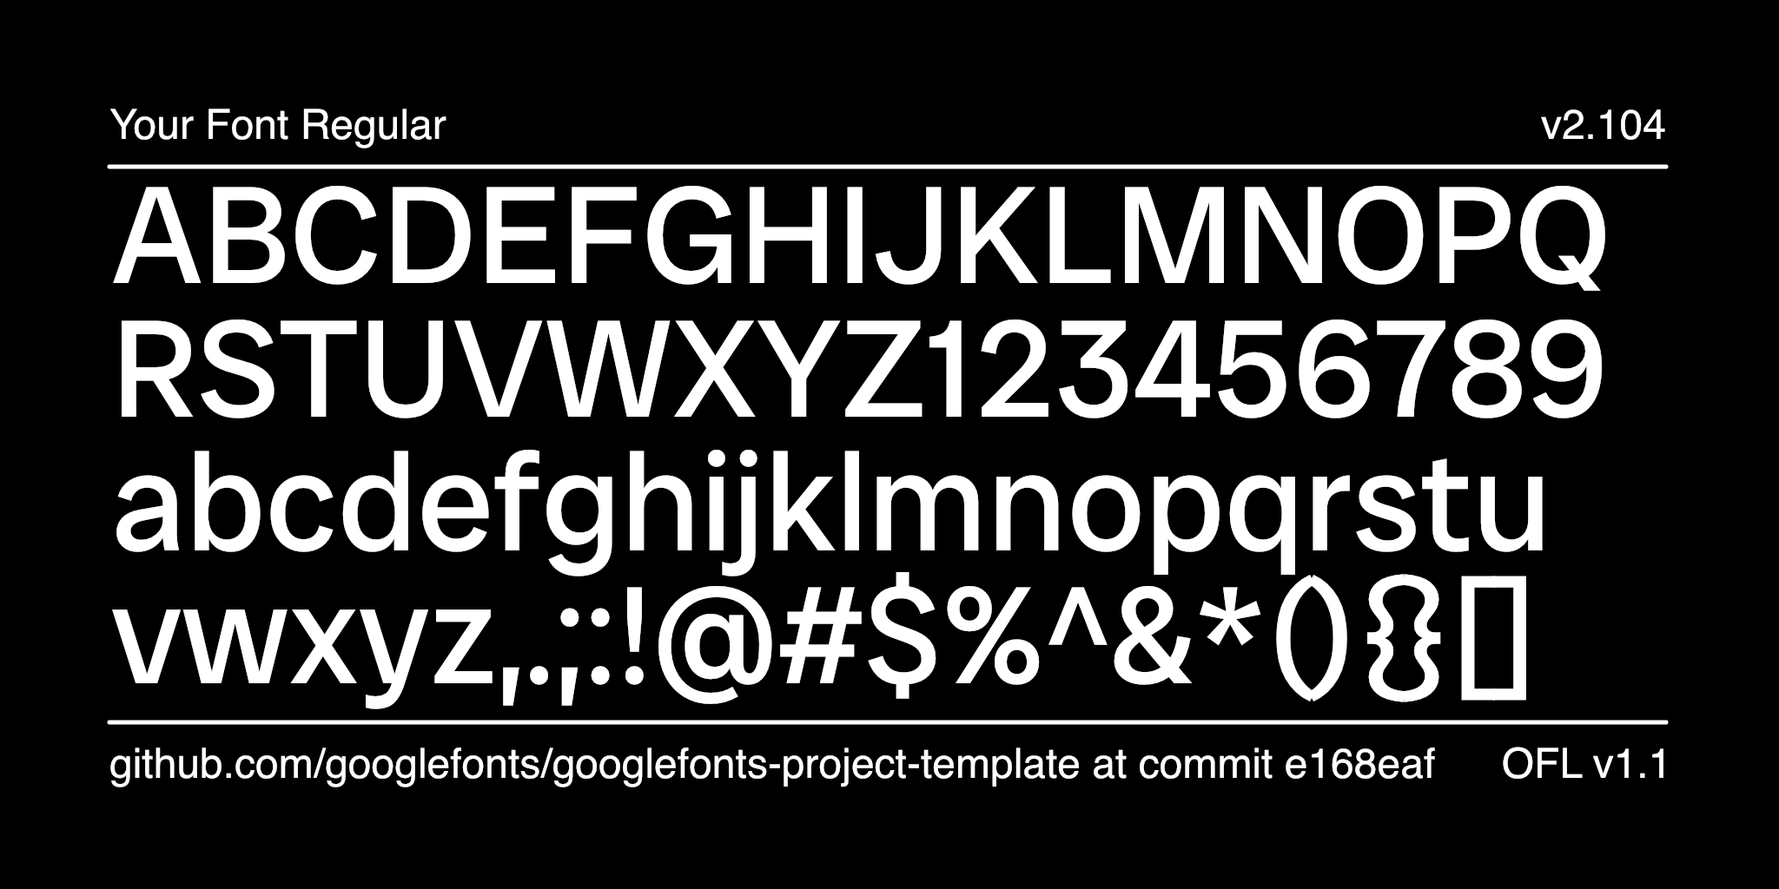
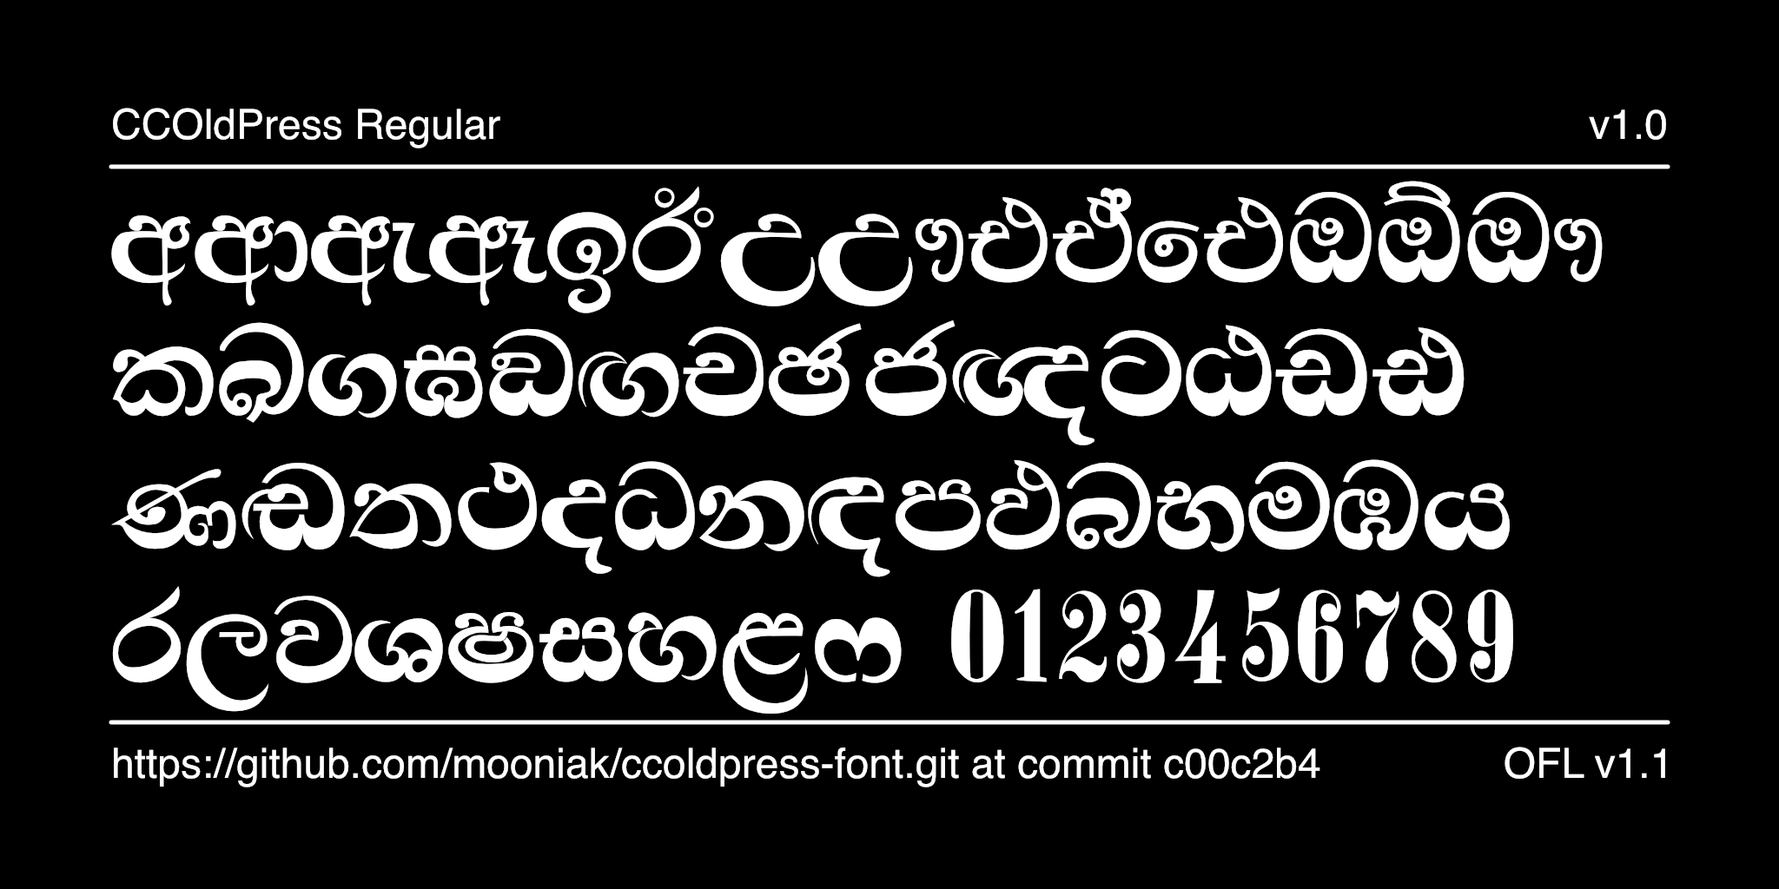
README, credits, article and specimens
README with badges, the ASCII-to-Unicode port notes, font data, coverage and features read off the built font; ARTICLE, AUTHORS, CONTRIBUTORS, OFL header (design year); specimen images rendered from a local --channel release build.

diff --git a/documentation/ARTICLE.en_us.html b/documentation/ARTICLE.en_us.html
@@ -1,12 +1,17 @@
 <p>
-    Please add a text describing the font here, 100 chracters or more, but no more than 500 words.
-    See https://googlefonts.github.io/gf-guide/article.html for further reference.
-    Please make sure that HTML characters are properly encoded. ('&' becomes &amp; etc.)
-    If unsure, use https://www.freeformatter.com/html-escape.html for formatting. (Use "Escape HTML").
+    CCOldPress is a high-contrast, old-press style Sinhala display typeface by Damith Welikala (Ceylon Calligraphy), made in 2019.
+    Its heavy letters with swelling curves recall letterpress headlines, for posters, book titles, packaging and signage.
 </p>
 <p>
-    Could be several paragraphs, also.
+    The font was first made in the FM Abhaya ASCII layout, the encoding most Sinhala fonts used
+    before Unicode: Sinhala letters were drawn on Latin keys, so text only looked like Sinhala in
+    that one font. In 2026 Mooniak ported it to Unicode. Every glyph now sits on its Sinhala
+    code point or is reached through OpenType rules, the vowel signs that were typed as separate
+    keys are composed, and the signs are positioned exactly where the original drew them.
 </p>
 <p>
-    To contribute, see <a href="https://github.com/youruseraccount/yourrepository">github.com/youruseraccount/yourrepository</a>.
+    The font covers the Sinhala letters in common use with their vowel signs, the repaya, rakaransaya and yansaya, ක්&zwj;ෂ, ක්&zwj;ව, න්&zwj;ධ, ත්&zwj;ව and ද්&zwj;ර, a set of consonant + vowel-sign ligatures, plus digits and basic punctuation, in a single Regular weight.
+</p>
+<p>
+    To contribute, see <a href="https://github.com/mooniak/ccoldpress-font">github.com/mooniak/ccoldpress-font</a>.
 </p>

diff --git a/documentation/image2.py b/documentation/image2.py
@@ -1,7 +1,7 @@
 # This script is meant to be run from the root level
 # of your font's git repository. For example, from a Unix terminal:
-# $ git clone my-font
-# $ cd my-font
+# $ git clone https://github.com/mooniak/ccoldpress-font.git
+# $ cd ccoldpress-font
 # $ python3 documentation/image1.py --output documentation/image1.png
 
 # Import moduels from external python packages: https://pypi.org/
@@ -13,19 +13,20 @@ from fontTools.misc.fixedTools import floatToFixedToStr
 import subprocess
 import sys
 import argparse
+import glob
 
 # Constants, these are the main "settings" for the image
 WIDTH, HEIGHT, MARGIN, FRAMES = 2048, 1024, 128, 1
-FONT_PATH = "fonts/variable/MyFont[wght].ttf"
+FONT_PATH = (sorted(glob.glob("fonts/ttf/*.ttf")) or sorted(glob.glob("fonts/variable/*.ttf")))[0]
 FONT_LICENSE = "OFL v1.1"
 AUXILIARY_FONT = "Helvetica"
 AUXILIARY_FONT_SIZE = 48
 
-LINE_ONE = "ABCDEFGHIJKLMNOPQ"
-LINE_TWO = "RSTUVWXYZ123456789"
-LINE_THREE = "abcdefghijklmnopqrstu"
-LINE_FOUR = "vwxyz,.;:!@#$%^&*(){}[]"
-BIG_TEXT_FONT_SIZE = 160
+LINE_ONE = "අආඇඈඉඊඋඌඑඒඓඔඕඖ"
+LINE_TWO = "කඛගඝඞඟචඡජඥටඨඩඪ"
+LINE_THREE = "ණඬතථදධනඳපඵබභමඹය"
+LINE_FOUR = "රලවශෂසහළෆ 0123456789"
+BIG_TEXT_FONT_SIZE = 136
 BIG_TEXT_SIDE_MARGIN = MARGIN * 1
 BIG_TEXT_BOTTOM_MARGIN = MARGIN * 5.45
 

diff --git a/documentation/image1.py b/documentation/image1.py
@@ -1,7 +1,7 @@
 # This script is meant to be run from the root level
 # of your font's git repository. For example, from a Unix terminal:
-# $ git clone my-font
-# $ cd my-font
+# $ git clone https://github.com/mooniak/ccoldpress-font.git
+# $ cd ccoldpress-font
 # $ python3 documentation/image1.py --output documentation/image1.png
 
 # Import moduels from external python packages: https://pypi.org/
@@ -13,18 +13,19 @@ from fontTools.misc.fixedTools import floatToFixedToStr
 import subprocess
 import sys
 import argparse
+import glob
 
 # Constants, these are the main "settings" for the image
 WIDTH, HEIGHT, MARGIN, FRAMES = 2048, 1024, 128, 1
-FONT_PATH = "fonts/variable/MyFont[wght].ttf"
+FONT_PATH = (sorted(glob.glob("fonts/ttf/*.ttf")) or sorted(glob.glob("fonts/variable/*.ttf")))[0]
 FONT_LICENSE = "OFL v1.1"
 AUXILIARY_FONT = "Helvetica"
 AUXILIARY_FONT_SIZE = 48
 
-BIG_TEXT = "AaBb"
-BIG_TEXT_FONT_SIZE = 730
+BIG_TEXT = "පැරණි"
+BIG_TEXT_FONT_SIZE = 540
 BIG_TEXT_SIDE_MARGIN = MARGIN * 1
-BIG_TEXT_BOTTOM_MARGIN = MARGIN * 2
+BIG_TEXT_BOTTOM_MARGIN = MARGIN * 2.5
 
 GRID_VIEW = False # Toggle this for a grid overlay
 

diff --git a/README.md b/README.md
@@ -1,102 +1,203 @@
-## Setting up your font
+CCOldPress
+=========
 
-### New repositories
+[![Build][badge-build]][link-build]
+[![Fontspector QA][badge-qa]][link-qa]
+[![Release][badge-release]][link-release]
+[![License: OFL 1.1][badge-license]][link-license]
 
-1. Hit the green button above ("Use this template") to create your own repository.
+[badge-build]: https://github.com/mooniak/ccoldpress-font/actions/workflows/build.yaml/badge.svg?branch=dev
+[badge-qa]: https://img.shields.io/badge/dynamic/json?url=https%3A%2F%2Fsrc.mooniak.com%2Fccoldpress-font%2Fbuild.json&query=%24.qa.pass_rate&suffix=%25&label=fontspector%20QA%20(dev%20build)&color=informational
+[badge-release]: https://img.shields.io/github/v/release/mooniak/ccoldpress-font?label=release
+[badge-license]: https://img.shields.io/badge/license-OFL--1.1-green
+[link-build]: https://github.com/mooniak/ccoldpress-font/actions/workflows/build.yaml
+[link-qa]: https://src.mooniak.com/ccoldpress-font/reports/fontspector/fontspector-report.html
+[link-release]: https://github.com/mooniak/ccoldpress-font/releases
+[link-license]: OFL.txt
 
-2. Clone the repository, and replace the font sources in the `sources` directory with your own font sources. These sources may be either in Glyphs format or UFO/Designspace formats.\
-   \
-   Unlike many open source distributors, Google Fonts is **curated**. Fonts shipped to the platform have to match the [Google Fonts Specifications](https://github.com/googlefonts/gf-docs/tree/main/Spec). Please read them carefully.\
-   \
-   _(The template ships a tiny generic placeholder — "My Font", a 2-master Weight variable font with a handful of blank-slate glyphs (`.notdef`, space, H, I, l, O) as `sources/MyFont.designspace` + UFOs. It exists only so the build pipeline works out of the box; replace it with your own sources.)_
+CCOldPress is a high-contrast, old-press style Sinhala display typeface by Damith Welikala (Ceylon Calligraphy), made in 2019.
+Its heavy letters with swelling curves recall letterpress headlines, for posters, book titles, packaging and signage. It is published by [Mooniak](https://mooniak.com/) as a free font under the SIL Open
+Font License, in a single Regular weight.
 
-3. Then reference the sources in the file `sources/config.yaml`, as well as making any other changes you would like to make based on the instructions in the [Google Fonts Builder documentation](https://github.com/googlefonts/gftools/blob/main/Lib/gftools/builder/__init__.py).
+![CCOldPress specimen](documentation/image1.png)
+![CCOldPress character set](documentation/image2.png)
 
-4. Add yourself to the `AUTHORS.txt` and `CONTRIBUTORS.txt` files.
+## From an ASCII font to Unicode
 
-5. Fill out `documentation/ARTICLE.en_us.html` with a description of your font.
+CCOldPress was first made in the **FM Abhaya ASCII layout**, the encoding most Sinhala fonts used
+before Unicode. Sinhala letters were drawn on Latin keys (`l` was ක, `s` the is-pilla drawn to
+overprint the letter before it, `f` the kombuva typed *before* the letter, `á` a precomposed ටි).
+Text typed that way only reads as Sinhala in that one font. Search, copy-paste, spell-checking
+and screen readers all see Latin gibberish.
 
-6. Rewrite this Readme file according to the recommendations in the [Google Fonts Guide](https://googlefonts.github.io/gf-guide/readmefile.html).
+On 26 November 2026 the source was ported to Unicode with Mooniak's
+[`ascii_to_unicode.py`](https://github.com/mooniak/mooniak-font-tools/tree/main/tools/font-migration):
 
-7. Add and commit these files to git.
+- every glyph got its Sinhala code point or a [LankaGlyphset](https://github.com/mooniak/lanka-glyphsets)
+  name reached by OpenType rules (the precomposed ටි ඩී ද්ර … are ligatures now);
+- what FM typed as several keys (ආ = `wd`, ෛ = `ff`, රු = `re` …) is composed from the same drawings;
+- the overprinting signs have zero width and mark anchors that put them exactly where the
+  original drew them; the kombuva is reordered by the shaper, not typed first.
 
-8. **At the command line, run `make customize` to ensure that all the paths and URLs in your project are correct**. This will also push your changes to GitHub.
+Every decision is in [`documentation/ascii-unicode-map.tsv`](documentation/ascii-unicode-map.tsv).
+Where this font differs from the standard FM layout, it is in
+[`documentation/ascii-overrides.tsv`](documentation/ascii-overrides.tsv): `³` is a filled star (U+2605); `_` `©` `Û` `µ` `¶` `½` are drawings the table cannot name (a spiral mark, a letter shape, the words සිලොන් කැලිග්රපි as a logo, a 9-like sign, a ග-like letter, a zigzag ornament) and sit on private-use U+E000–E005 until the designer decides.
+The port was checked by rendering 1262 texts (every glyph slot, 959 syllables, 124 words of real FM text) in the old ASCII font and, as Unicode, in the new one: 1258 came out the same. The 4 others are expected: ÷ sat on the soft-hyphen slot, which a renderer never draws, ඡේ uses the precomposed ඡ් glyph inside ේ, and ක්ව න්ධ differ by 5–6% in the placement of the touching half.
 
-9. **Set up your GitHub pages site**: go to your repository's Settings > Pages and ensure that the Build and deployment "Source" drop-down is set to "GitHub Actions". (Any preexisting Actions jobs can be re-run to publish now, or the deployment triggered also manually from the Actions tab. Subsequent commits will publish the proofs and QA results automatically.)
+**Old documents typed in the ASCII version** can be converted to Unicode text with
+[Pandukabhaya](https://github.com/akuruAI/Pandukabhaya) (`pandukabhaya fm_abhaya -i old.txt -o new.txt`).
 
-10. If GitHub Actions has successfully built the family, you will find the font binaries in the Actions tab. The official GitHub Actions documentation provides further [information](https://docs.github.com/en/actions/managing-workflow-runs/downloading-workflow-artifacts).
+## Get the font
 
-### Updating a repository
+- **Download:** the [Releases](https://github.com/mooniak/ccoldpress-font/releases) page. A
+  pre-release named `canary` is rebuilt from every push to `dev`. It is the latest development
+  work and may be broken, so don't use it in production. Its family name ends in `CANARY`, so it
+  can be installed next to a release.
+- **Proofs and QA:** the latest development build, with type proofs and the full Fontspector
+  report, is at [src.mooniak.com/ccoldpress-font](https://src.mooniak.com/ccoldpress-font/).
+- **Build it yourself:** see [Building the fonts from source](#building-the-fonts-from-source).
 
-1. To update your font repository to bring in the latest best-practices from the Google Fonts Project Template, run `make update-project-template` from the command line. This requires the `node` Javascript engine to be installed; if you don't have that already, [follow these instructions](https://nodejs.org/en/download/package-manager#macos) to install on your platform.
+## Font data
 
-2. To update the Python build chain which builds your fonts, run `make update` and `git add`/`git commit` the new `requirements.txt`.
+| | |
+|---|---|
+| **Version** | 1.000 |
+| **Script** | Sinhala (no Latin letters; digits and basic punctuation only) |
+| **Styles** | Regular |
+| **Formats** | TTF, OTF and WOFF2 (`CCOldPress-Regular.*`) |
+| **Glyphs** | 198 (120 mapped to Unicode code points; the rest are ligatures and alternates used by OpenType features) |
+| **Units per em** | 1000 |
+| **Vertical metrics** | ascent 960, descent −320, line gap 0 (1.28 em; `hhea`, typo and win; `USE_TYPO_METRICS` on) |
+| **File size** | about 105 KB (TTF), 57 KB (OTF), 49 KB (WOFF2) |
+| **Source format** | [Glyphs](https://glyphsapp.com/) 3 package (`sources/CCOldPress.glyphspackage`) |
+| **License** | [SIL Open Font License 1.1](OFL.txt) |
 
-## More things to do
+### Character coverage
 
-- `CustomFilter_GF_Latin_All.plist` in `sources` is practical if you use GlyphsApp, you can remove it otherwise. Placed in the same directory as the your `.glyphs` file, it will allow Glyphs to display a filter list for all GF Latin glyphsets in app. To make sure your font supports the minimal set required by Google Fonts, look at the `GF_Latin_Core` filter list. Find other glyphsets and list formats for different software in [GF Glyphsets repository](https://github.com/googlefonts/glyphsets/tree/main/GF_glyphsets).
+| Range | Encoded |
+|---|---|
+| Sinhala (U+0D80–0DFF) | 78 of 91. Not drawn: candrabindu U+0D81, ෳ U+0DF3, kunddaliya U+0DF4, Lith digits U+0DE6–0DEF |
+| Basic Latin | space, digits 0–9 and `! % ( ) * + , - . / : ; = ?` |
+| Other | × ÷ – ‘ ’ • ★, no-break space, ZWNJ, ZWJ, dotted circle (U+25CC); six drawings the FM table could not name (a spiral mark, a logo, a zigzag ornament, letter shapes) on private-use U+E000–E005 |
 
-- Once you are happy with your font, add promotional assets in the documentation directory. Make it different from the pic you use in this README. You can get inspired by existing @googlefonts posts as: https://x.com/googlefonts/status/1415562928657416192.
+### OpenType features
 
-- Google Fonts uses GitHub Releases to manage font families. If you feel your font project has hit a milestone, you must create a new release for it. In order to do this, go to the releases page and hit the "Draft a new release" button. You must provide a tag number and title which can only be a decimal number e.g. `0.100`, `1.000` etc. For the body text, mention what has changed since the last release. Once you are done, hit the "Publish release" button. Here is an example which fulfills the requirements, https://github.com/m4rc1e/test-ufr-family/releases/tag/2.019. For more info regarding GitHub release, please see the official GitHub Release [documentation](https://docs.github.com/en/repositories/releasing-projects-on-github/managing-releases-in-a-repository). **Please note that GitHub Actions must be able to build the fonts before you can make a release. Once you have made a release, the fonts and tests assets will be attached to the release automatically. This may take a while since the fonts and tests will be built from scratch so please be patient.**
+The features are generated by `ascii_to_unicode.py` from the glyphs the font has.
 
----
+| Layout table | Features |
+|---|---|
+| `GSUB` | `akhn` (ක්ෂ, ක්ව, න්ධ, ත්ව) `vatu` (rakaransaya, yansaya, ද්ර) `pstf` (two-part vowels) `abvs` `blws` `psts` (consonant + sign ligatures, the hook-form ු/ූ after ක ග ත භ ශ, රු රූ) `ss01` (below-base දා) |
+| `GPOS` | `abvm` `mark` (ි ී ු ූ ් placed where the original drew them) |
 
-# My Font
+Most conjuncts fall back to a letter with a visible al-lakuna. Open questions for the designer are tracked in Mooniak's publishing checklist (`mnik check ccoldpress`).
 
-[![][Fontspector]](https://mooniak.github.io/mooniak-font-project-template.git/fontspector/fontspector-report.html)
-[![][OpenType]](https://mooniak.github.io/mooniak-font-project-template.git/fontspector/fontspector-report.html)
-[![][Universal]](https://mooniak.github.io/mooniak-font-project-template.git/fontspector/fontspector-report.html)
-[![][Google Fonts]](https://mooniak.github.io/mooniak-font-project-template.git/fontspector/fontspector-report.html)
-[![][Glyphset]](https://mooniak.github.io/mooniak-font-project-template.git/fontspector/fontspector-report.html)
+## Repository structure
 
-[Fontspector]: https://img.shields.io/endpoint?url=https%3A%2F%2Fmooniak.github.io%2Fmooniak-font-project-template.git%2Fbadges%2FFontspectorQA.json
-[OpenType]: https://img.shields.io/endpoint?url=https%3A%2F%2Fmooniak.github.io%2Fmooniak-font-project-template.git%2Fbadges%2FOpentypeSpecificationChecks.json
-[Universal]: https://img.shields.io/endpoint?url=https%3A%2F%2Fmooniak.github.io%2Fmooniak-font-project-template.git%2Fbadges%2FUniversalProfileChecks.json
-[Google Fonts]: https://img.shields.io/endpoint?url=https%3A%2F%2Fmooniak.github.io%2Fmooniak-font-project-template.git%2Fbadges%2FFontFileChecks.json
-[Outline Correctness]: https://img.shields.io/endpoint?url=https%3A%2F%2Fmooniak.github.io%2Fmooniak-font-project-template.git%2Fbadges%2FOutlineCorrectnessChecks.json
-[Glyphset]: https://img.shields.io/endpoint?url=https%3A%2F%2Fmooniak.github.io%2Fmooniak-font-project-template.git%2Fbadges%2FGlyphsetChecks.json
+| Path | What it is |
+|---|---|
+| `sources/CCOldPress.glyphspackage` | The font source: glyphs, anchors and OpenType feature code, as a Glyphs 3 package |
+| `sources/config.yaml` | Build configuration read by [gftools](https://github.com/googlefonts/gftools) |
+| `fontpackage.json` | Mooniak catalogue metadata (name, designer, tier, channels) |
+| `Makefile` | Build, test and proof targets (see below) |
+| `requirements.in`, `requirements.txt` | Python dependencies: the top-level list, and the pinned set used for builds |
+| `fonts/`, `out/`, `_site/` | Build output, QA/proof reports and the proof site (created by `make`; not committed) |
+| `documentation/` | Specimen images and their DrawBot scripts, the font description (`ARTICLE.en_us.html`), and the ASCII → Unicode port records (`ascii-unicode-map.tsv`, `ascii-overrides.tsv`) |
+| `scripts/` | Helper scripts used by the Makefile and CI (from the Mooniak project template) |
+| `OFL.txt`, `AUTHORS.txt`, `CONTRIBUTORS.txt` | License and credits |
 
-Description of your font goes here. We recommend to start with a very short presentation line (the kind you would use on twitter to present your project for example), and then add as much details as necesary :-) Origin of the project, idea of usage, concept of creation… but also number of masters, axes, character sets, etc.
+## Building the fonts from source
 
-Don't hesitate to create images!
+Building needs only free, open-source tools. You need Glyphs only to edit the source, not to build.
 
-![Sample Image](documentation/image1.png)
-![Sample Image](documentation/image2.png)
+### Requirements
 
-## About
+- **macOS or Linux** (on Windows, use [WSL](https://learn.microsoft.com/windows/wsl/)).
+- **Python 3.12** with `venv` and `pip`, the version CI uses. The dependencies in
+  `requirements.txt` are pinned, and other Python versions may fail to install them.
+- **Make** and **git**, and network access for the first build.
 
-Description of you and/or organisation goes here.
+### Build
 
-## Building
+```sh
+git clone https://github.com/mooniak/ccoldpress-font.git
+cd ccoldpress-font
+python3.12 -m venv venv
+make build
+```
 
-Fonts are built automatically by GitHub Actions — take a look in the "Actions" tab for the latest build.
+`make build` installs the pinned dependencies into `venv/` (first run only), then runs
+[`gftools builder`](https://github.com/googlefonts/gftools) on `sources/config.yaml`. Output:
 
-If you want to build fonts manually on your own computer:
+```
+fonts/ttf/CCOldPress-Regular.ttf
+fonts/otf/CCOldPress-Regular.otf
+fonts/webfonts/CCOldPress-Regular.woff2
+```
 
-- `make build` will produce font files.
-- `make test` will run [Fontspector](https://fonttools.github.io/fontspector/)'s quality assurance tests.
-- `make proof` will generate HTML proof files.
-- `make features` regenerates the Sinhala/Tamil OpenType features with [lankafea](https://github.com/mooniak/sinhala-font-tools/tree/gh-pages/tools/feature-generator), for fonts that keep their settings in `sources/lankafea.yaml`. Commit the result; the build doesn't need lankafea.
+Each rebuild deletes and recreates `fonts/`. `make` doesn't notice edits inside the package
+folder, so after editing the source run `rm build.stamp && make build`.
 
-The proof files and QA tests are also available automatically via GitHub Actions — look at https://mooniak.github.io/mooniak-font-project-template.git.
+### Quality checks and proofs
+
+These need two extra tools, installed with
+[`cargo binstall`](https://github.com/cargo-bins/cargo-binstall):
+
+```sh
+cargo binstall fontspector     # for `make test`
+cargo binstall diffenator3     # for `make proof`
+```
+
+| Command | What it does |
+|---|---|
+| `make test` | Runs [Fontspector](https://github.com/fonttools/fontspector) with the Google Fonts profile and writes reports to `out/fontspector/`. It doesn't stop on failures; read the report. |
+| `make proof` | Runs `diff3proof` and writes an HTML proof to `out/proof/`. |
+| `make pages` | Builds the stage-gated proof site into `_site/` (needs `make manifest` first). |
+| `make images` | Re-renders `documentation/image1.png` and `image2.png`. |
+| `make clean` | Deletes `venv/`. |
+
+Known Fontspector failures, shared by Mooniak's other Sinhala-only fonts: the Google Fonts Latin
+coverage, language-shaping and "render own name" checks (the font has no Latin letters), and the
+GF repository-layout check.
+
+## Releases and versioning
+
+Versions follow [OpenFV](https://github.com/openfv/openfv) (`MAJOR.MINOR`, three-digit minor).
+Work happens on `dev`; `main` only moves when a release is cut.
+
+| You want | Do this | CI publishes |
+|---|---|---|
+| the latest build | push to `dev` | the rolling `canary` pre-release and the proof site |
+| a fixed preview for testers | tag a `dev` commit `vX.YYY-dev.N` | a GitHub pre-release |
+| a release | merge `dev` into `main` (no squash), tag `main` `vX.YYY` | a GitHub Release |
+
+Bump `versionMajor`/`versionMinor` in the source before tagging. The next release after the
+2019 version 1.000 should be **1.001** or later.
+
+## Contributing
+
+Bug reports and design feedback are welcome in the
+[issue tracker](https://github.com/mooniak/ccoldpress-font/issues). Open pull requests against
+`dev`, edit `sources/CCOldPress.glyphspackage` with Glyphs 3, rebuild
+(`rm build.stamp && make build`) and run `make test`. Add yourself to `CONTRIBUTORS.txt`.
+
+## Credits
+
+- **Design:** Damith Welikala, Ceylon Calligraphy (2019)
+- **Unicode port, production and publishing:** [Mooniak](https://mooniak.com/) (2026)
+- **FM Abhaya mapping data:** [Pandukabhaya](https://github.com/akuruAI/Pandukabhaya) (MIT)
 
 ## Changelog
 
-When you update your font (new version or new release), please report all notable changes here, with a date.
-[Font Versioning](https://github.com/googlefonts/gf-docs/tree/main/Spec#font-versioning) is based on semver.
-Changelog example:
+**26 November 2026, version 1.000 (development)**
 
-**26 May 2021. Version 2.13**
+- Ported from the FM Abhaya ASCII layout to Unicode: LankaGlyphset names, Sinhala code points,
+  composed vowels and ligatures, generated OpenType features, mark anchors.
+- Moved to the Mooniak build pipeline: Glyphs 3 package, gftools builds with CI, proofs and QA.
+- Added no-break space, ZWJ/ZWNJ and dotted circle; Google Fonts vertical metrics; Mooniak copyright, designer, vendor ID and OFL licence in the font.
 
-- MAJOR Font turned to a variable font.
-- SIGNIFICANT New Stylistic sets added.
+**2019, version 1.000.** Damith Welikala's original, an FM-layout ASCII font made in FontForge.
 
 ## License
 
-This Font Software is licensed under the SIL Open Font License, Version 1.1.
-This license is available with a FAQ at https://openfontlicense.org
-
-## Repository Layout
-
-This font repository structure is inspired by [Unified Font Repository v0.3](https://github.com/unified-font-repository/Unified-Font-Repository), modified for the Google Fonts workflow.
+This Font Software is licensed under the SIL Open Font License, Version 1.1. This license is
+available with a FAQ at https://openfontlicense.org
